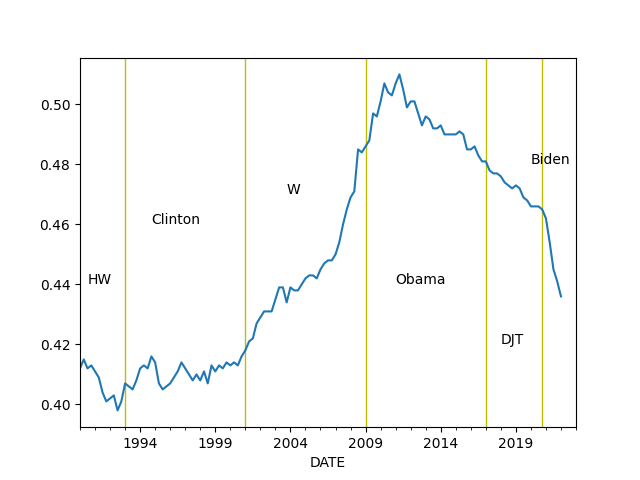
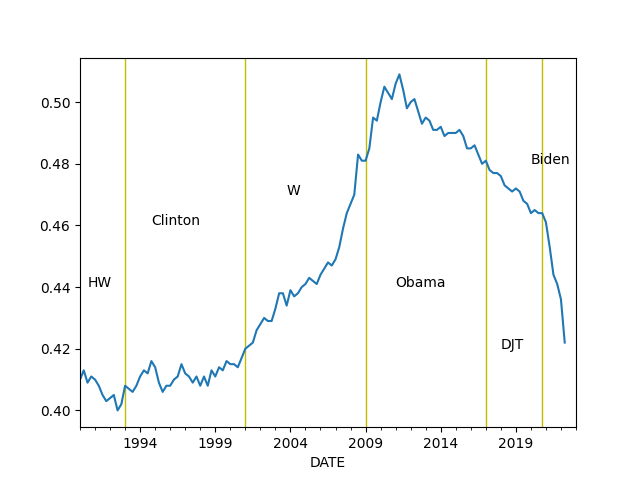
--

diff --git a/en/2019/05/stats.md b/en/2019/05/stats.md
@@ -75,12 +75,12 @@ DATE
 2022-04-01   1.796042
                  inf
 DATE                
-2022-03-01  8.542456
 2022-04-01  8.258629
 2022-05-01  8.581512
 2022-06-01  9.059758
 2022-07-01  8.524815
 2022-08-01  8.262693
+2022-09-01  8.201670
 ```
 
 <a name='taylor'/>
@@ -659,6 +659,7 @@ def gini(pop,val):
 
 cols = ['WFRBLT01026', 'WFRBLN09053','WFRBLN40080','WFRBLB50107']
 df = u.get_fred(1989,cols)
+df = df.interpolate()
 p = [0.01, 0.09, 0.40, 0.50]
 g = df.apply(lambda x: gini(p,x),axis=1)
 print (g.tail(4))
@@ -681,11 +682,11 @@ plt.savefig('gini.png')
 
 ```text
 DATE
-2021-04-01    0.454
-2021-07-01    0.445
+2021-07-01    0.444
 2021-10-01    0.441
 2022-01-01    0.436
-dtype: float64
+2022-04-01    0.422
+Freq: QS-OCT, dtype: float64
 ```
 
 ![](gini.png)
